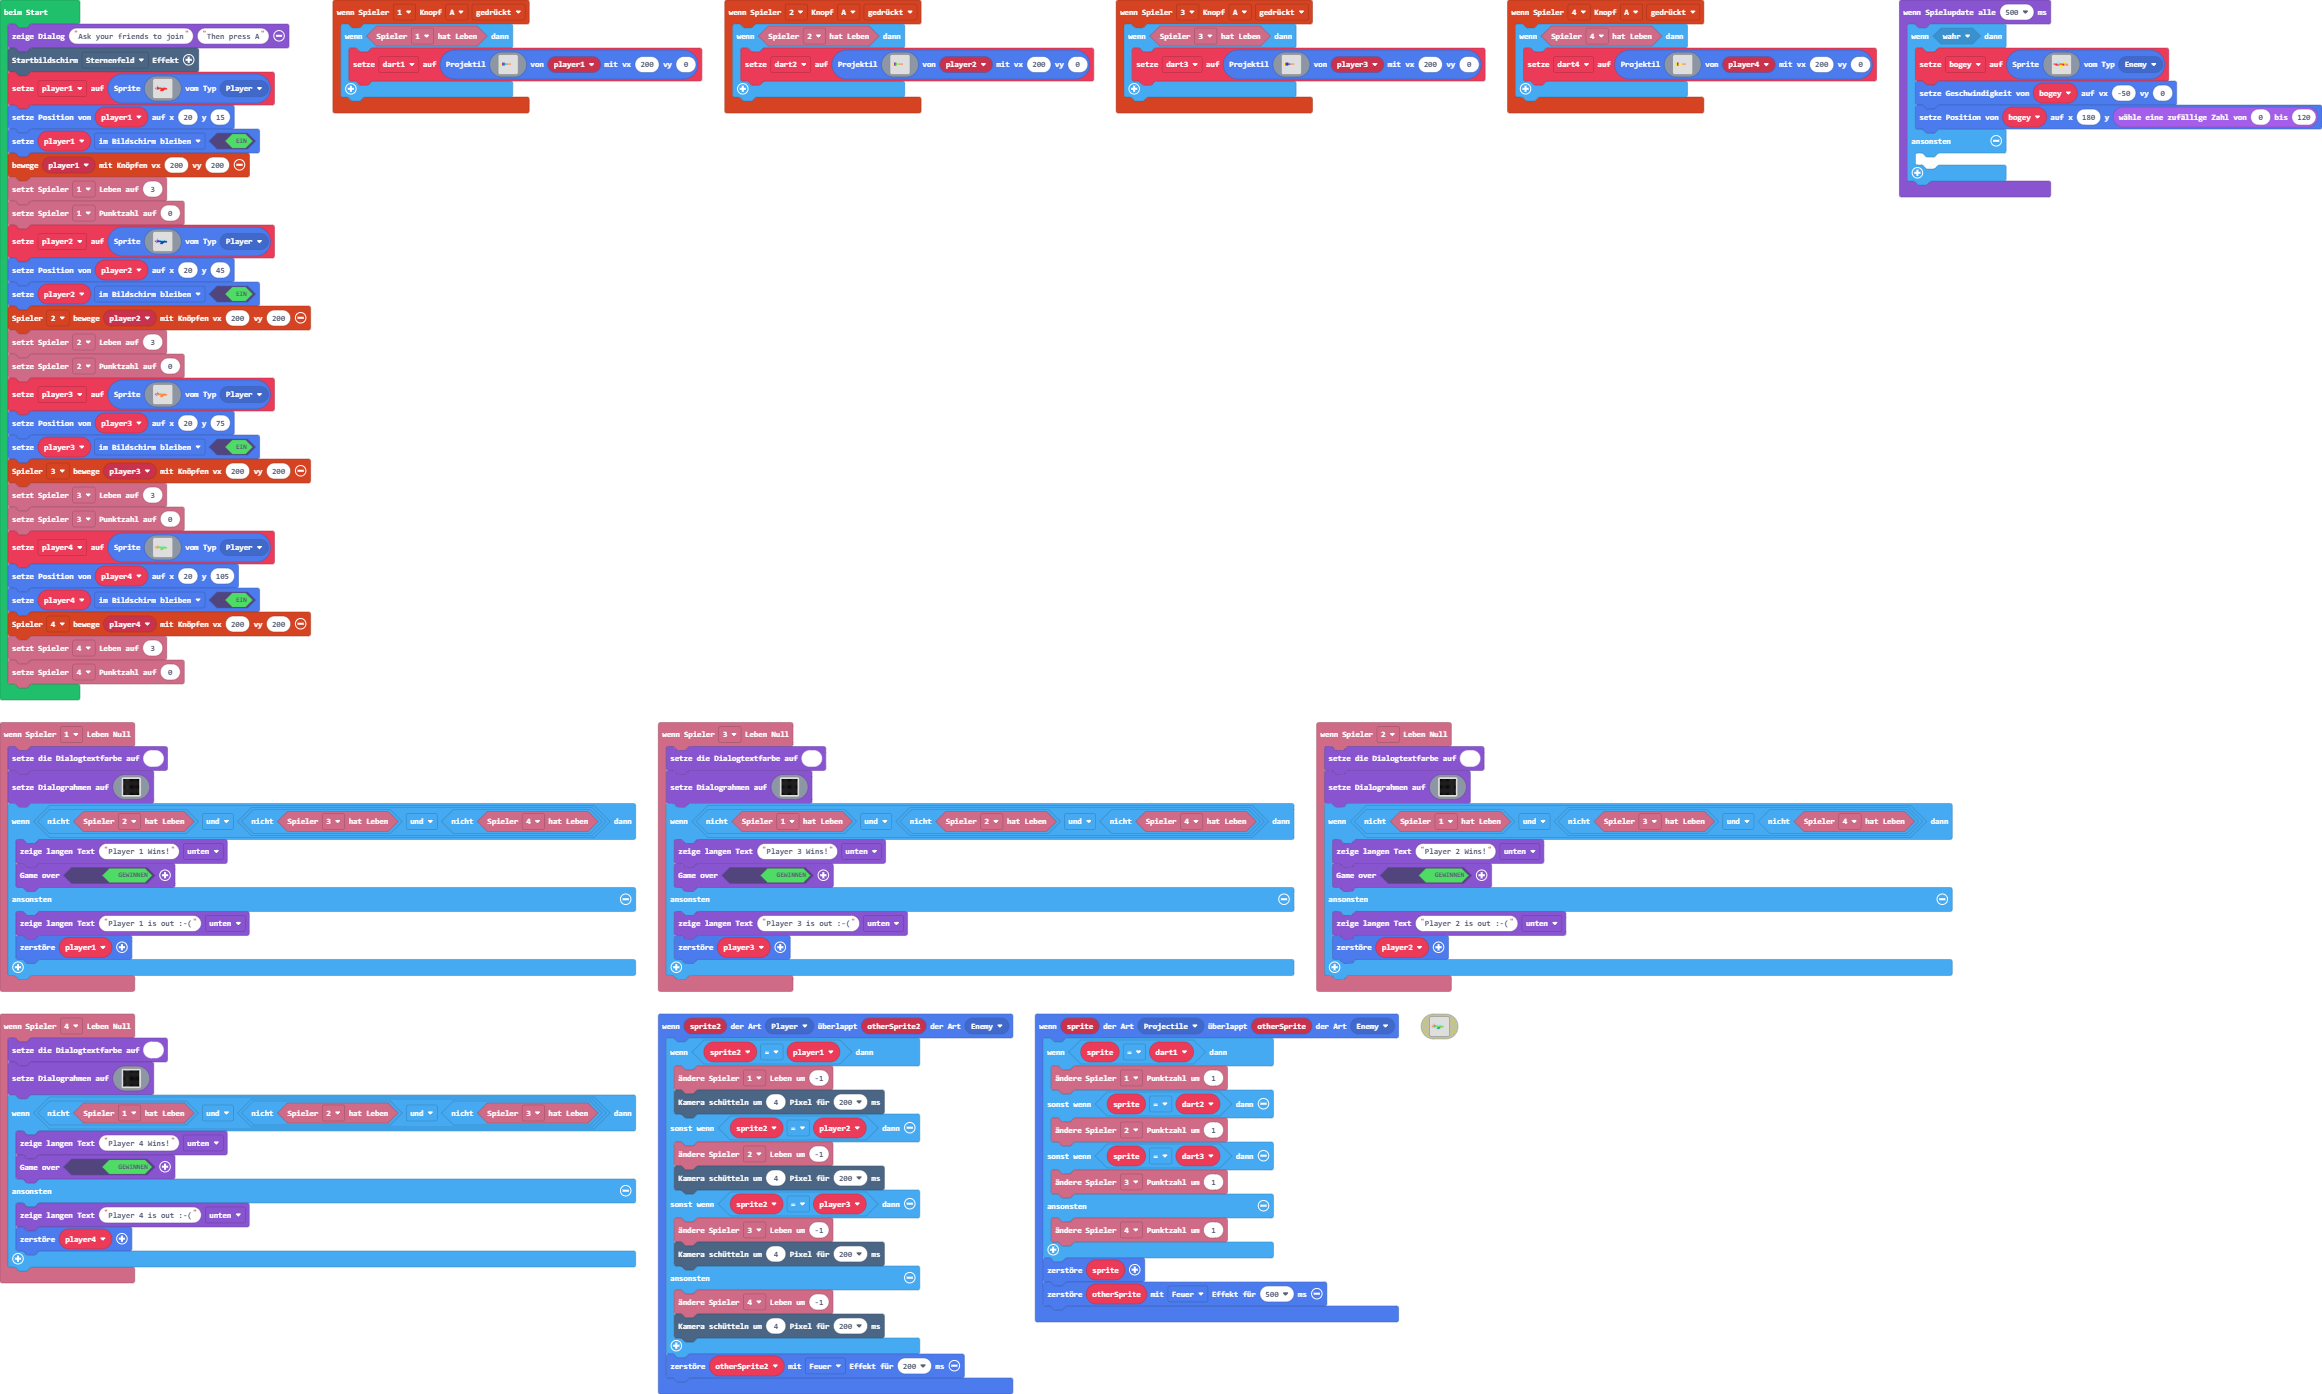
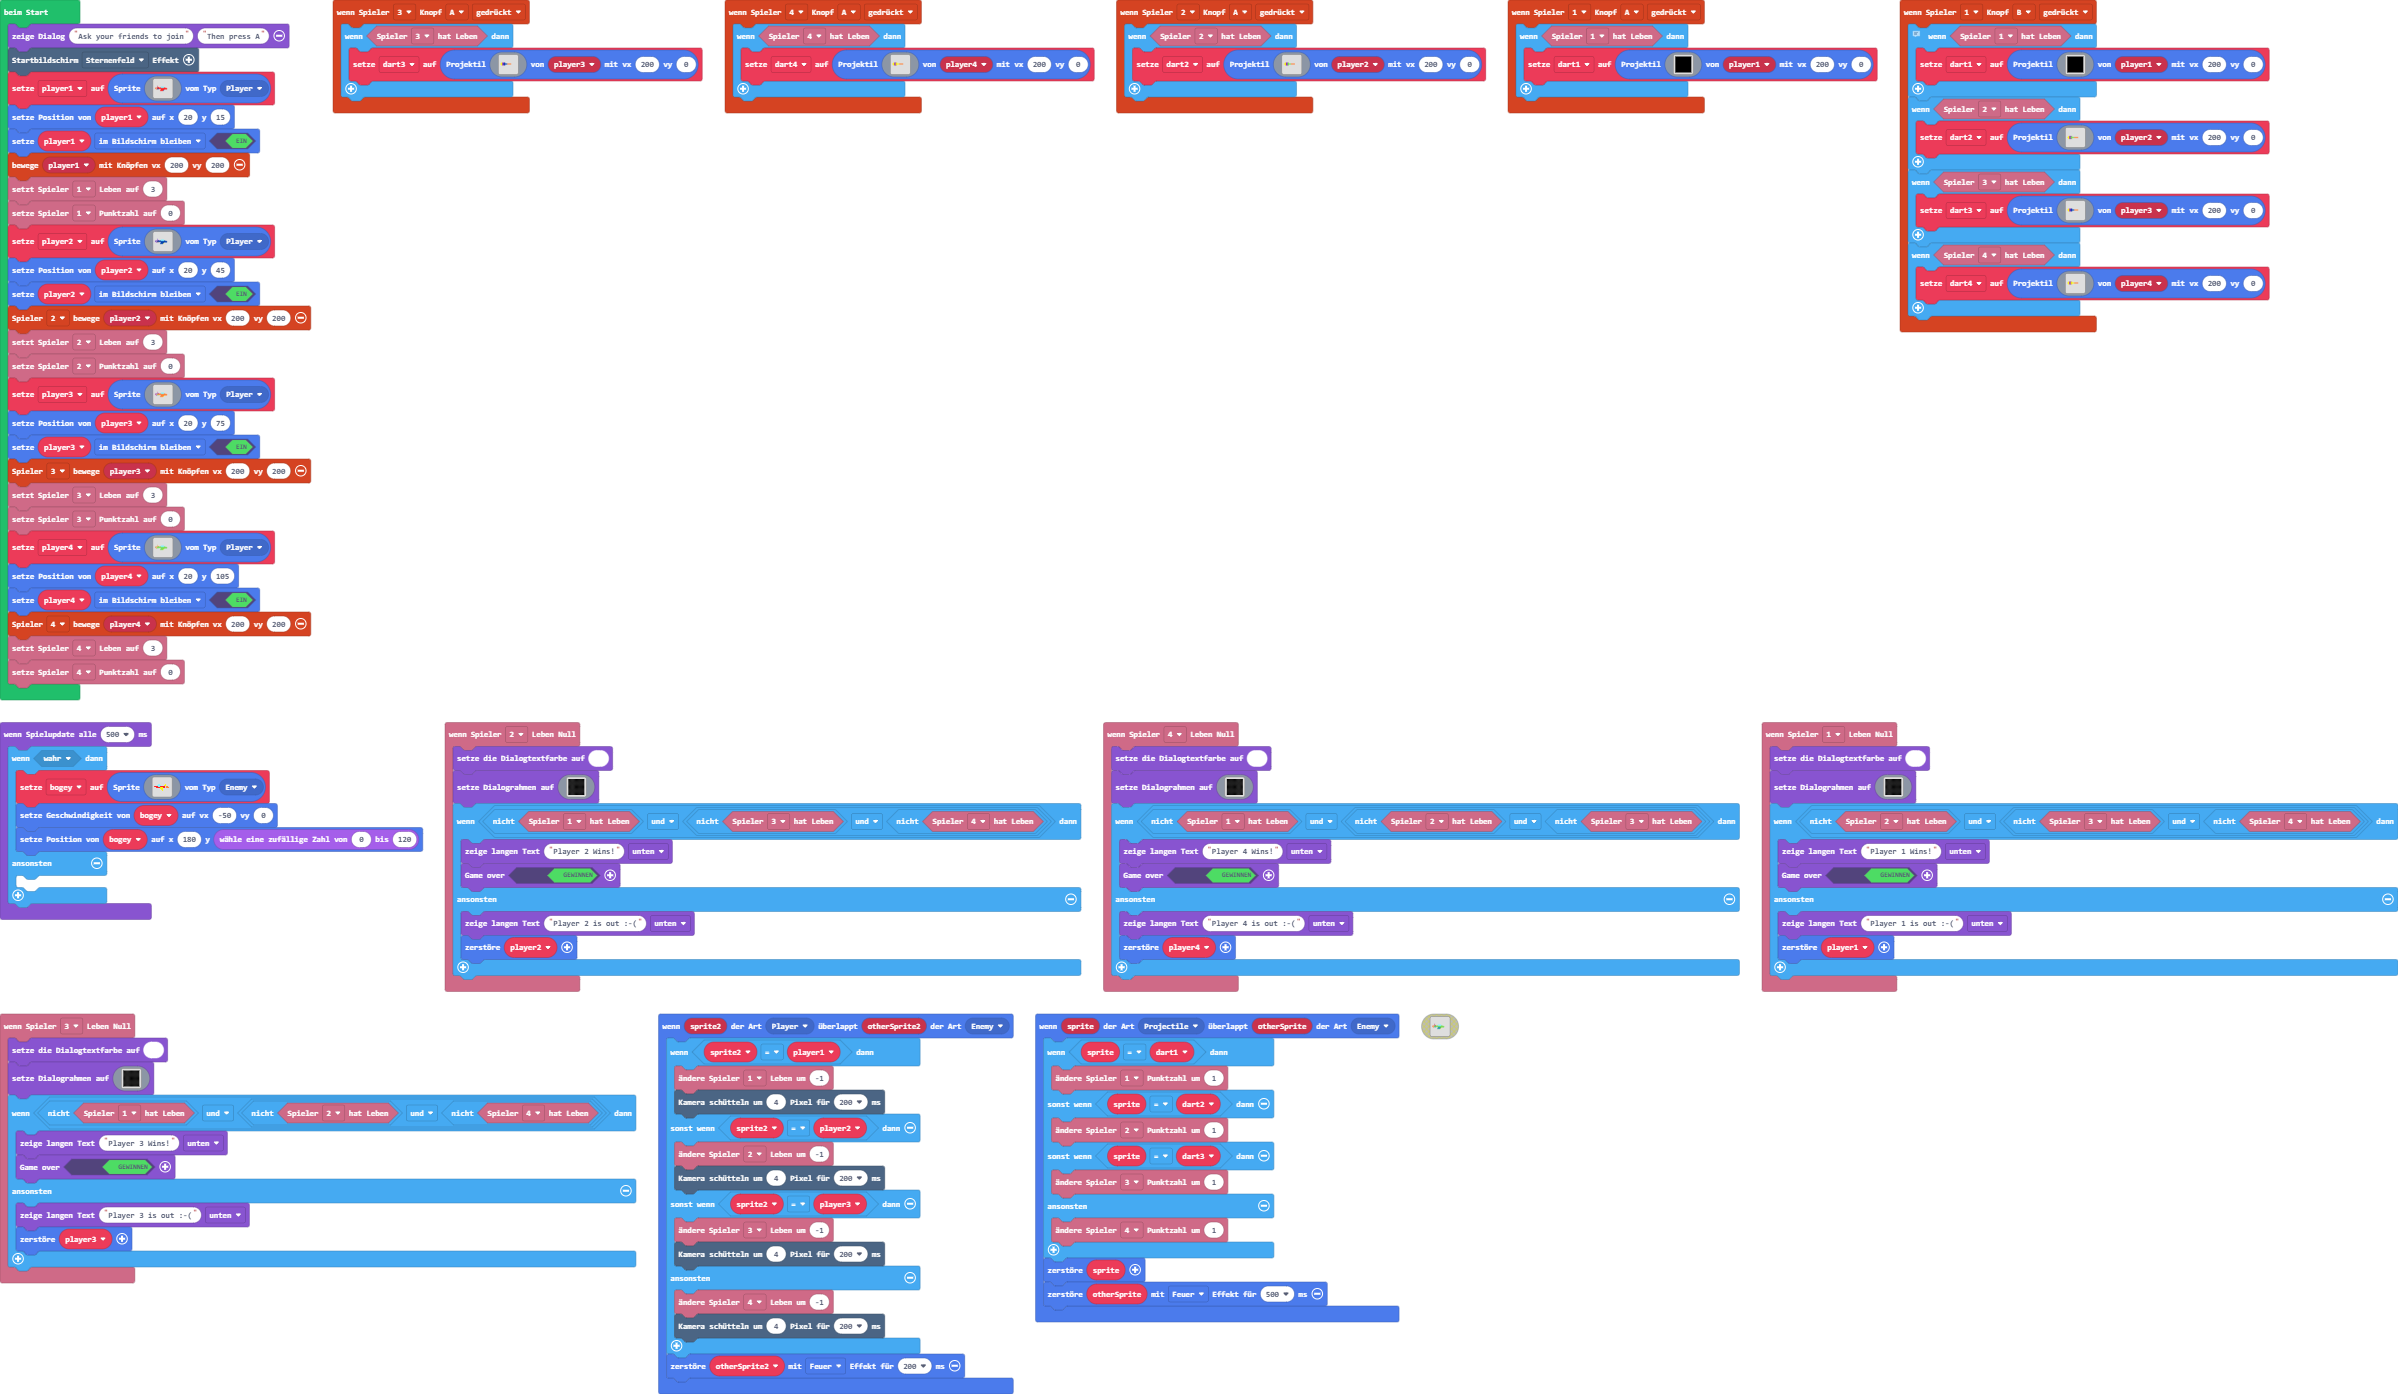
Aktualisiere pxt.json, main.blocks, main.ts, main.py, images.g.jres, images.g.ts

Changed region(s): [[0.0, 0.0, 1.0, 1.0], [0.155, 0.7712, 0.2171, 0.802]]

diff --git a/main.ts b/main.ts
@@ -190,16 +190,44 @@ controller.player2.onButtonEvent(ControllerButton.A, ControllerButtonEvent.Press
 })
 controller.player1.onButtonEvent(ControllerButton.A, ControllerButtonEvent.Pressed, function () {
     if (info.player1.hasLife()) {
-        dart1 = sprites.createProjectileFromSprite(img`
+        dart1 = sprites.createProjectileFromSprite(assets.image`meinBild`, player1, 200, 0)
+    }
+})
+controller.player1.onButtonEvent(ControllerButton.B, ControllerButtonEvent.Pressed, function () {
+    // No need for '== True'
+    if (info.player1.hasLife()) {
+        dart1 = sprites.createProjectileFromSprite(assets.image`meinBild`, player1, 200, 0)
+    }
+    if (info.player2.hasLife()) {
+        dart2 = sprites.createProjectileFromSprite(img`
             . . . . . . . . . . . . . . . . 
             . . . . . . . . . . . . . . . . 
             . . . . . . . . . . . . . . . . 
             . . . . . . . . . . . . . . . . 
             . . . . . . . . . . . . . . . . 
             . . . . . . . . . . . . . . . . 
-            . 5 a a 6 . . . . . . . . . . . 
-            5 5 a 6 6 6 6 4 4 4 4 . . . . . 
-            . 5 a a 6 . . . . . . . . . . . 
+            . 5 a a 7 . . . . . . . . . . . 
+            5 5 a 7 7 7 7 4 4 4 4 . . . . . 
+            . 5 a a 7 . . . . . . . . . . . 
+            . . . . . . . . . . . . . . . . 
+            . . . . . . . . . . . . . . . . 
+            . . . . . . . . . . . . . . . . 
+            . . . . . . . . . . . . . . . . 
+            . . . . . . . . . . . . . . . . 
+            . . . . . . . . . . . . . . . . 
+            `, player2, 200, 0)
+    }
+    if (info.player3.hasLife()) {
+        dart3 = sprites.createProjectileFromSprite(img`
+            . . . . . . . . . . . . . . . . 
+            . . . . . . . . . . . . . . . . 
+            . . . . . . . . . . . . . . . . 
+            . . . . . . . . . . . . . . . . 
+            . . . . . . . . . . . . . . . . 
+            . . . . . . . . . . . . . . . . 
+            . 5 a a 8 . . . . . . . . . . . 
+            5 5 a 8 8 8 8 4 4 4 4 . . . . . 
+            . 5 a a 8 . . . . . . . . . . . 
             . . . . . . . . . . . . . . . . 
             . . . . . . . . . . . . . . . . 
             . . . . . . . . . . . . . . . . 
@@ -207,7 +235,27 @@ controller.player1.onButtonEvent(ControllerButton.A, ControllerButtonEvent.Press
             . . . . . . . . . . . . . . . . 
             . . . . . . . . . . . . . . . . 
             . . . . . . . . . . . . . . . . 
-            `, player1, 200, 0)
+            `, player3, 200, 0)
+    }
+    if (info.player4.hasLife()) {
+        dart4 = sprites.createProjectileFromSprite(img`
+            . . . . . . . . . . . . . . . . 
+            . . . . . . . . . . . . . . . . 
+            . . . . . . . . . . . . . . . . 
+            . . . . . . . . . . . . . . . . 
+            . . . . . . . . . . . . . . . . 
+            . . . . . . . . . . . . . . . . 
+            . 5 a a 5 . . . . . . . . . . . 
+            5 5 a 5 5 5 5 4 4 4 4 . . . . . 
+            . 5 a a 5 . . . . . . . . . . . 
+            . . . . . . . . . . . . . . . . 
+            . . . . . . . . . . . . . . . . 
+            . . . . . . . . . . . . . . . . 
+            . . . . . . . . . . . . . . . . 
+            . . . . . . . . . . . . . . . . 
+            . . . . . . . . . . . . . . . . 
+            . . . . . . . . . . . . . . . . 
+            `, player4, 200, 0)
     }
 })
 sprites.onOverlap(SpriteKind.Projectile, SpriteKind.Enemy, function (sprite, otherSprite) {

diff --git a/images.g.ts b/images.g.ts
@@ -1,0 +1,44 @@
+// Automatisch generierter Code. Nicht bearbeiten.
+namespace myImages {
+
+    helpers._registerFactory("image", function(name: string) {
+        switch(helpers.stringTrim(name)) {
+            case "image1":
+            case "meinBild":return img`
+f f f f f f f f f f f f f f f f 
+f f f f f f f f f f f f f f f f 
+f f f f f f f f f f f f f f f f 
+f f f f f f f f f f f f f f f f 
+f f f f f f f f f f f f f f f f 
+f f f f f f f f f f f f f f f f 
+f f f f f f f f f f f f f f f f 
+f f f f f f f f f f f f f f f f 
+f f f f f f f f f f f f f f f f 
+f f f f f f f f f f f f f f f f 
+f f f f f f f f f f f f f f f f 
+f f f f f f f f f f f f f f f f 
+f f f f f f f f f f f f f f f f 
+f f f f f f f f f f f f f f f f 
+f f f f f f f f f f f f f f f f 
+f f f f f f f f f f f f f f f f 
+`;
+        }
+        return null;
+    })
+
+    helpers._registerFactory("animation", function(name: string) {
+        switch(helpers.stringTrim(name)) {
+
+        }
+        return null;
+    })
+
+    helpers._registerFactory("song", function(name: string) {
+        switch(helpers.stringTrim(name)) {
+
+        }
+        return null;
+    })
+
+}
+// Automatisch generierter Code. Nicht bearbeiten.

diff --git a/main.py b/main.py
@@ -211,14 +211,86 @@ def on_player1_button_a_pressed():
     if info.player1.has_life():
         dart1 = sprites.create_projectile_from_sprite(img("""
                 . . . . . . . . . . . . . . . . 
+                            5 5 5 5 5 5 5 5 5 5 5 5 5 5 5 5 
+                            5 5 5 5 5 5 5 5 5 5 5 5 5 5 5 5 
+                            5 5 5 5 5 5 5 5 5 5 5 5 5 5 5 5 
+                            5 5 5 5 5 5 5 5 5 5 5 5 5 5 5 5 
+                            5 5 5 5 5 5 5 5 5 5 5 5 5 5 5 5 
+                            5 5 a a 6 5 5 5 5 5 5 5 5 5 5 5 
+                            5 5 a 6 6 6 6 4 4 4 4 5 5 5 5 5 
+                            5 5 a a 6 5 5 5 5 5 5 5 5 5 5 5 
+                            5 5 5 5 5 5 5 5 5 5 5 5 5 5 5 5 
+                            5 5 5 5 5 5 5 5 5 5 5 5 5 5 5 5 
+                            5 5 5 5 5 5 5 5 5 5 5 5 5 5 5 5 
+                            5 5 5 5 5 5 5 5 5 5 5 5 5 5 5 5 
+                            5 5 5 5 5 5 5 5 5 5 5 5 5 5 5 5 
+                            5 5 5 5 5 5 5 5 5 5 5 5 5 5 5 5 
+                            5 5 5 5 5 5 5 5 5 5 5 5 5 5 5 5
+            """),
+            player1,
+            200,
+            0)
+controller.player1.on_button_event(ControllerButton.A,
+    ControllerButtonEvent.PRESSED,
+    on_player1_button_a_pressed)
+
+def on_player1_button_b_pressed():
+    global dart1, dart2, dart3, dart4
+    # No need for '== True'
+    if info.player1.has_life():
+        dart1 = sprites.create_projectile_from_sprite(img("""
+                . . . . . . . . . . . . . . . . 
+                            5 5 5 5 5 5 5 5 5 5 5 5 5 5 5 5 
+                            5 5 5 5 5 5 5 5 5 5 5 5 5 5 5 5 
+                            5 5 5 5 5 5 5 5 5 5 5 5 5 5 5 5 
+                            5 5 5 5 5 5 5 5 5 5 5 5 5 5 5 5 
+                            5 5 5 5 5 5 5 5 5 5 5 5 5 5 5 5 
+                            5 5 a a 6 5 5 5 5 5 5 5 5 5 5 5 
+                            5 5 a 6 6 6 6 4 4 4 4 5 5 5 5 5 
+                            5 5 a a 6 5 5 5 5 5 5 5 5 5 5 5 
+                            5 5 5 5 5 5 5 5 5 5 5 5 5 5 5 5 
+                            5 5 5 5 5 5 5 5 5 5 5 5 5 5 5 5 
+                            5 5 5 5 5 5 5 5 5 5 5 5 5 5 5 5 
+                            5 5 5 5 5 5 5 5 5 5 5 5 5 5 5 5 
+                            5 5 5 5 5 5 5 5 5 5 5 5 5 5 5 5 
+                            5 5 5 5 5 5 5 5 5 5 5 5 5 5 5 5 
+                            5 5 5 5 5 5 5 5 5 5 5 5 5 5 5 5
+            """),
+            player1,
+            200,
+            0)
+    if info.player2.has_life():
+        dart2 = sprites.create_projectile_from_sprite(img("""
+                . . . . . . . . . . . . . . . . 
                             . . . . . . . . . . . . . . . . 
                             . . . . . . . . . . . . . . . . 
                             . . . . . . . . . . . . . . . . 
                             . . . . . . . . . . . . . . . . 
                             . . . . . . . . . . . . . . . . 
-                            . 5 a a 6 . . . . . . . . . . . 
-                            5 5 a 6 6 6 6 4 4 4 4 . . . . . 
-                            . 5 a a 6 . . . . . . . . . . . 
+                            . 5 a a 7 . . . . . . . . . . . 
+                            5 5 a 7 7 7 7 4 4 4 4 . . . . . 
+                            . 5 a a 7 . . . . . . . . . . . 
+                            . . . . . . . . . . . . . . . . 
+                            . . . . . . . . . . . . . . . . 
+                            . . . . . . . . . . . . . . . . 
+                            . . . . . . . . . . . . . . . . 
+                            . . . . . . . . . . . . . . . . 
+                            . . . . . . . . . . . . . . . .
+            """),
+            player2,
+            200,
+            0)
+    if info.player3.has_life():
+        dart3 = sprites.create_projectile_from_sprite(img("""
+                . . . . . . . . . . . . . . . . 
+                            . . . . . . . . . . . . . . . . 
+                            . . . . . . . . . . . . . . . . 
+                            . . . . . . . . . . . . . . . . 
+                            . . . . . . . . . . . . . . . . 
+                            . . . . . . . . . . . . . . . . 
+                            . 5 a a 8 . . . . . . . . . . . 
+                            5 5 a 8 8 8 8 4 4 4 4 . . . . . 
+                            . 5 a a 8 . . . . . . . . . . . 
                             . . . . . . . . . . . . . . . . 
                             . . . . . . . . . . . . . . . . 
                             . . . . . . . . . . . . . . . . 
@@ -227,12 +299,34 @@ def on_player1_button_a_pressed():
                             . . . . . . . . . . . . . . . . 
                             . . . . . . . . . . . . . . . .
             """),
-            player1,
+            player3,
             200,
             0)
-controller.player1.on_button_event(ControllerButton.A,
+    if info.player4.has_life():
+        dart4 = sprites.create_projectile_from_sprite(img("""
+                . . . . . . . . . . . . . . . . 
+                            . . . . . . . . . . . . . . . . 
+                            . . . . . . . . . . . . . . . . 
+                            . . . . . . . . . . . . . . . . 
+                            . . . . . . . . . . . . . . . . 
+                            . . . . . . . . . . . . . . . . 
+                            . 5 a a 5 . . . . . . . . . . . 
+                            5 5 a 5 5 5 5 4 4 4 4 . . . . . 
+                            . 5 a a 5 . . . . . . . . . . . 
+                            . . . . . . . . . . . . . . . . 
+                            . . . . . . . . . . . . . . . . 
+                            . . . . . . . . . . . . . . . . 
+                            . . . . . . . . . . . . . . . . 
+                            . . . . . . . . . . . . . . . . 
+                            . . . . . . . . . . . . . . . . 
+                            . . . . . . . . . . . . . . . .
+            """),
+            player4,
+            200,
+            0)
+controller.player1.on_button_event(ControllerButton.B,
     ControllerButtonEvent.PRESSED,
-    on_player1_button_a_pressed)
+    on_player1_button_b_pressed)
 
 def on_on_overlap2(sprite, otherSprite):
     if sprite == dart1:
